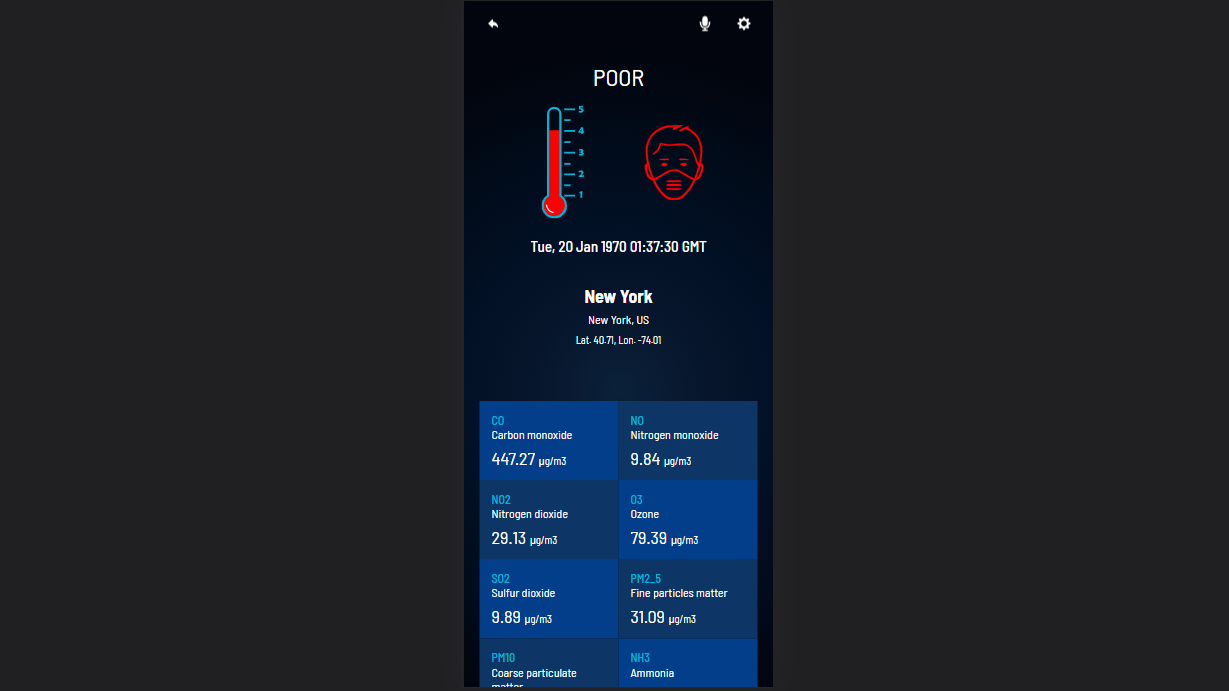
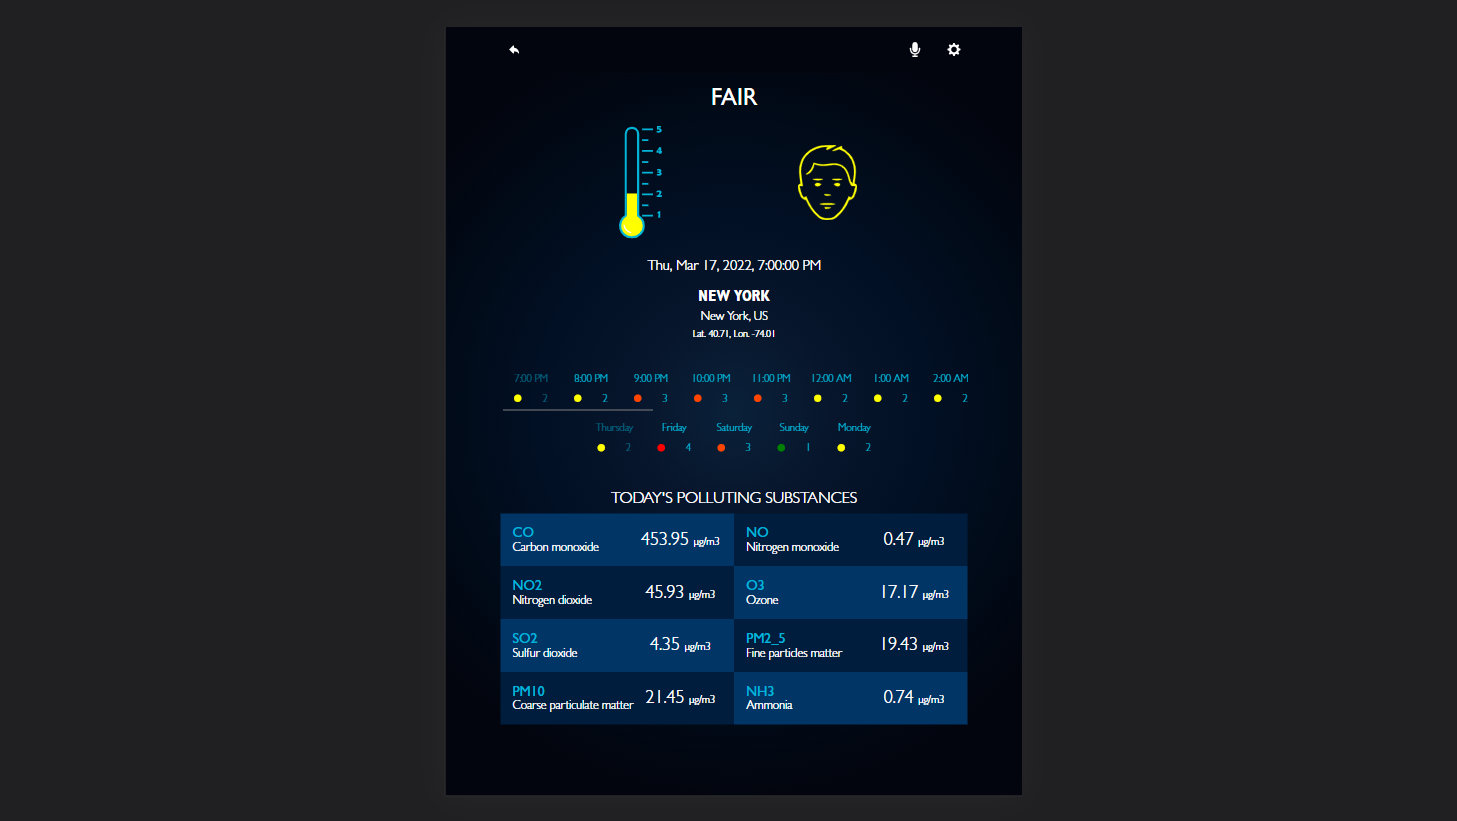
Update the README.md file

Changed region(s): [[0.3092, 0.0, 0.7111, 1.0], [0.4638, 0.0912, 0.5256, 0.152]]

diff --git a/README.md b/README.md
@@ -13,10 +13,11 @@ The website displays air pollution information using react components and redux 
 - Navigation between two pages, start and contamination details.
 - Users can start a search by entering the city name in the search bar on the home page, which will display a list of matching cities.
 - Users can view the detailed information on air pollution by clicking the arrow button located in each city.
-- The details page shows the air quality index information using international standard colors and city location information.
+- The details page shows the air quality index information using international standard colors and the city location information.
+- The details page shows the forecast of air pollution for the next 24 hours and for the next 5 days.
 - The details page also shows a table with the measurement of each polluting substance.
 - The user can return to the home page by clicking the back button.
-- The website retrieves city and air pollution data from two different third-party APIs.
+- The website retrieves city and air pollution data from three different third-party APIs.
 
 
 ## Built With
@@ -25,6 +26,7 @@ The website displays air pollution information using react components and redux 
 - React
 - Redux
 - SCSS
+- Webpack
 
 
 ## Live Demo
@@ -34,7 +36,7 @@ The website displays air pollution information using react components and redux 
 
 ## Link loom video
 
-[Presentation](https://www.loom.com/share/489cc231dea84b73ab1c60cd17a58ac9)
+[Presentation](https://www.loom.com/share/de3fa4a29a424f459fa1f2ba54a36fe0)
 
 
 ## Getting Started
@@ -84,7 +86,8 @@ Give a ⭐ if you like this project!
 ## Acknowledgments
 
 - Linters: [Microverse](https://github.com/microverseinc/linters-config)
-- Original design idea: [Nelson Sakwa](https://www.behance.net/sakwadesignstudio)
+- Basic design idea: [Nelson Sakwa](https://www.behance.net/sakwadesignstudio)
+- Faces design: [jussilanet](https://jussilanet.com/CU-HWS/css/aqi/?ND)
 
 ## 📝 License
 
